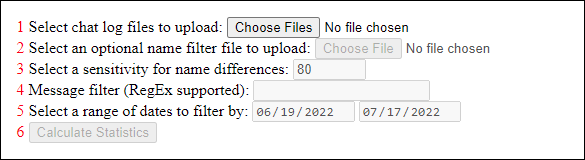
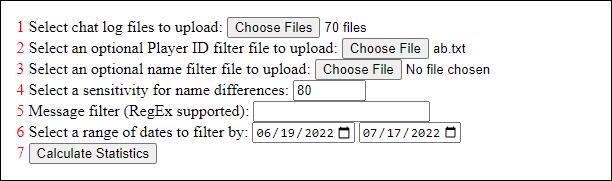
Added Player ID filter

Changed region(s): [[0.0, 0.0938, 0.8615, 0.9062], [0.0, 0.9688, 1.0, 1.0], [0.0, 0.0, 1.0, 0.0312]]

diff --git a/script.js b/script.js
@@ -29,6 +29,7 @@ ChatStats.classes.Message = class Message {
 		this.name = name;
 		this.content = content;
 		this.filter = {
+			id: true,
 			name: true,
 			content: true,
 			date: true
@@ -177,10 +178,37 @@ ChatStats.chat_logs_change = async function () {
 	
 	// If things have been done in the wrong order, run the filters now.
 	if (ChatStats.helpers.filters_flag) {
+		await ChatStats.id_filter_change();
 		await ChatStats.name_filter_change();
 		ChatStats.message_filter_change();
 		ChatStats.date_filter_change();
 		
+	}
+	
+	ChatStats.helpers.enable_input();
+}
+
+ChatStats.id_filter_change = async function() {
+	ChatStats.helpers.disable_input();
+	
+	let id_filter = (await document.getElementById('id_filter_file').files[0]?.text() ?? '');
+	if (id_filter === '') {
+		for (let message of ChatStats.messages) {
+			message.filter.id = true;
+		}
+		ChatStats.helpers.enable_input();
+		return;
+	}
+	id_filter = id_filter.split(/[\t\n\r,]+/);
+	console.log(id_filter);
+	for (let player of ChatStats.known_players) {
+		let flag = false;
+		if (id_filter.includes(player.id)) {
+			flag = true;
+		}
+		for (let message of player.messages) {
+			message.filter.id = flag;
+		}
 	}
 	
 	ChatStats.helpers.enable_input();

diff --git a/index.html b/index.html
@@ -14,6 +14,10 @@
 				<input type="file" name="chat_log_files" id="chat_log_files" accept=".txt" onchange="ChatStats.chat_logs_change();" multiple />
 			</div>
 			<div>
+				<label for="id_filter_file">Select an optional Player ID filter file to upload:</label>
+				<input type="file" name="id_filter_file" id="id_filter_file" accept=".txt" onchange="ChatStats.id_filter_change();" disabled />
+			</div>
+			<div>
 				<label for="name_filter_file">Select an optional name filter file to upload:</label>
 				<input type="file" name="name_filter_file" id="name_filter_file" accept=".txt" onchange="ChatStats.name_filter_change();" disabled />
 			</div>
